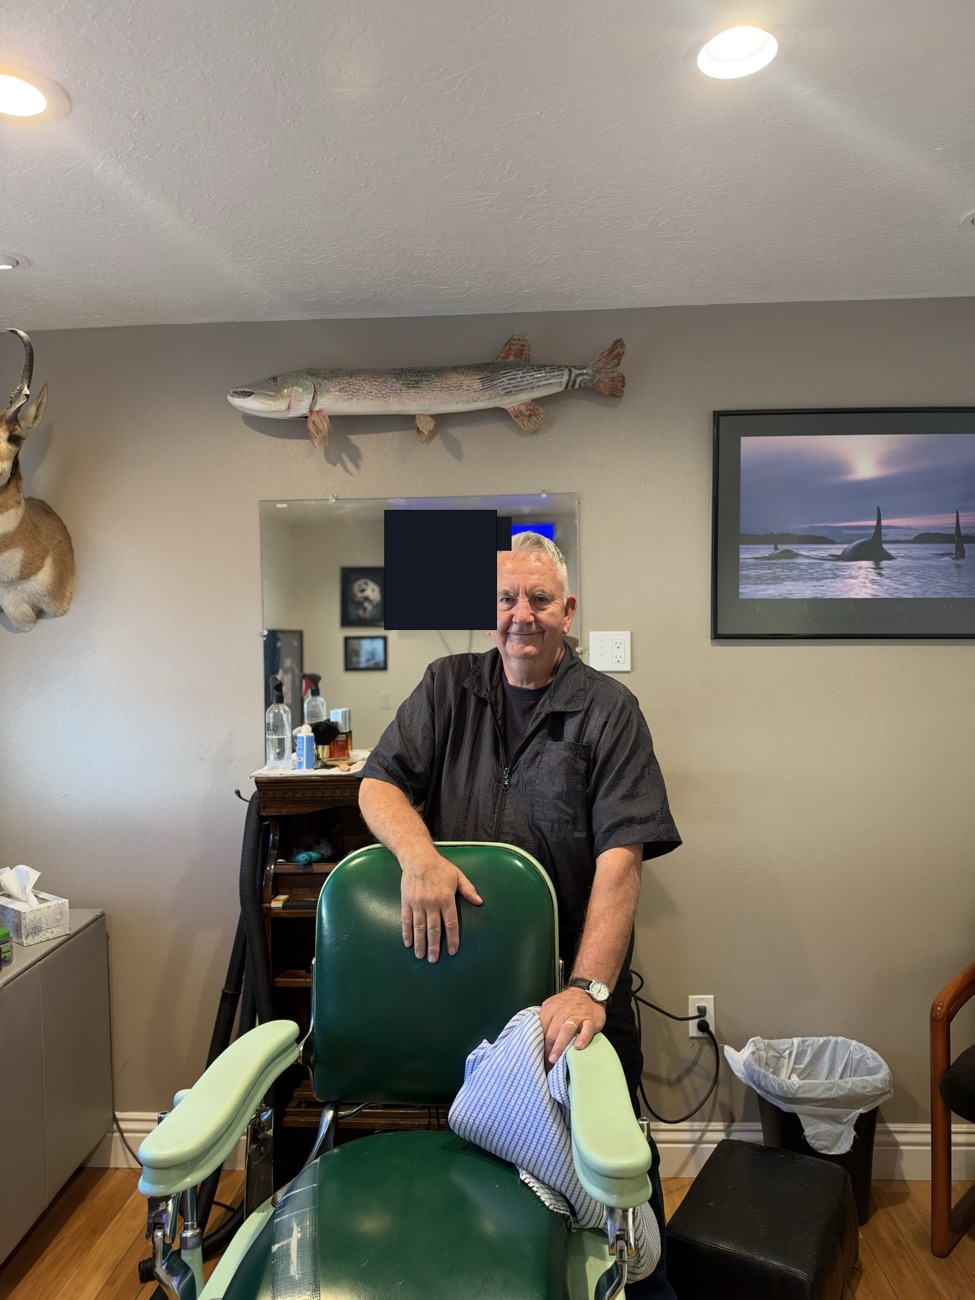
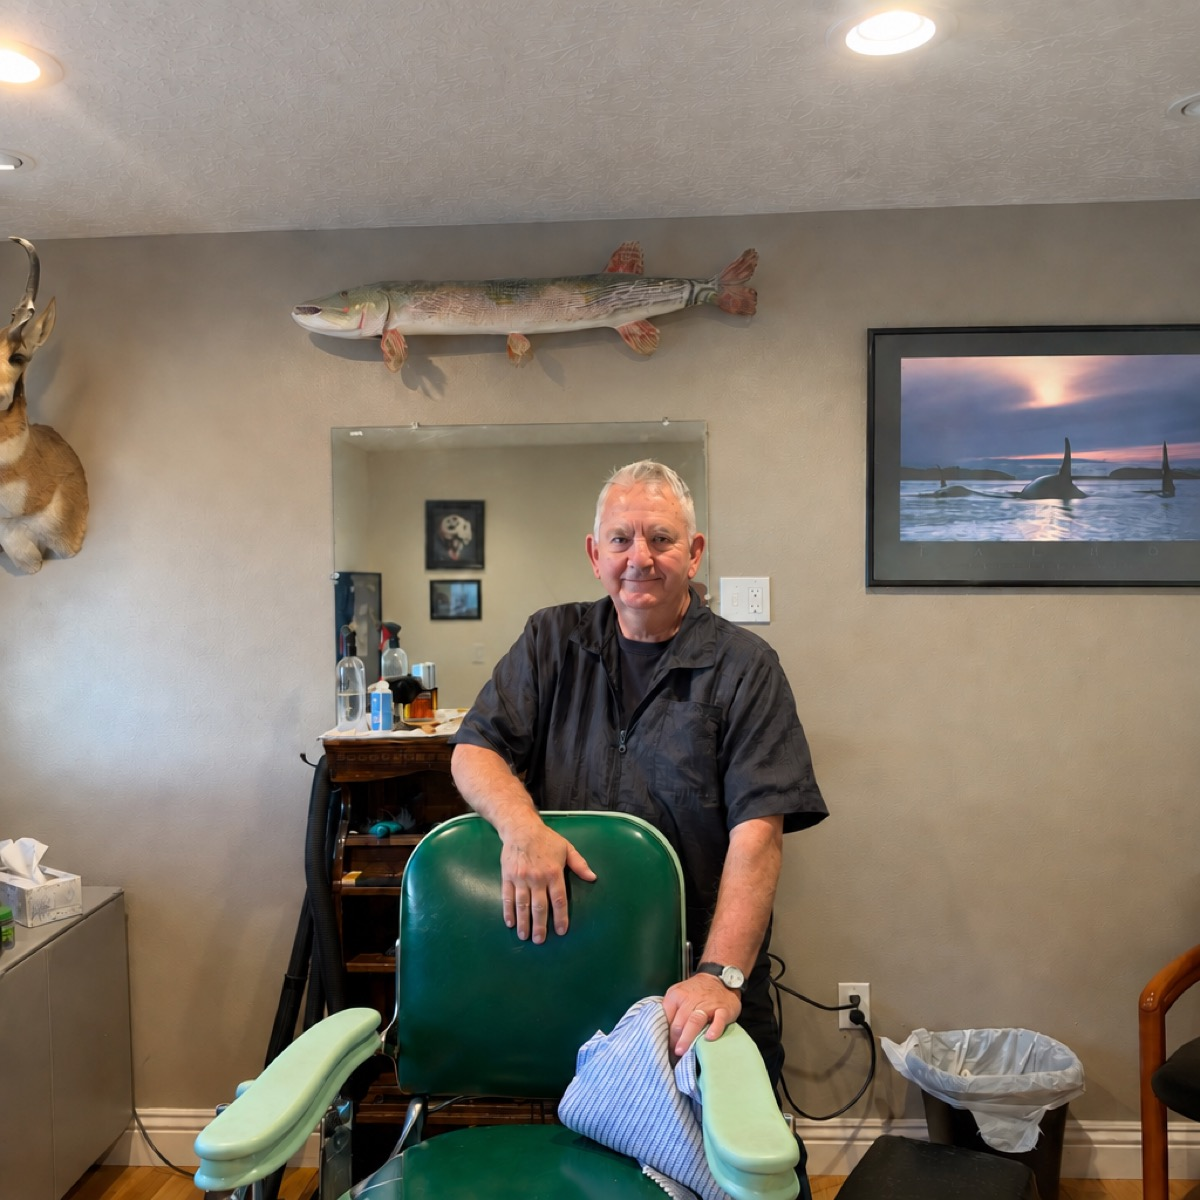
Joe's: replace TV with seamless mirror reflection in Joe's photo (clean retouch)

diff --git a/index.html b/index.html
@@ -87,7 +87,7 @@
   .about p{color:var(--ink2);margin-top:16px}
   .about .photo{border-radius:10px;overflow:hidden;box-shadow:var(--shadow)}
   .about .photo img{width:100%;height:100%;object-fit:cover;aspect-ratio:4/3}
-  .about .joephoto img{aspect-ratio:4/5;object-position:center 30%}
+  .about .joephoto img{aspect-ratio:1/1;object-position:center 42%}
   /* location sign photo */
   .signphoto{position:relative;border-radius:10px;overflow:hidden;box-shadow:var(--shadow)}
   .signphoto img{width:100%;height:100%;object-fit:cover;aspect-ratio:4/5;display:block}
